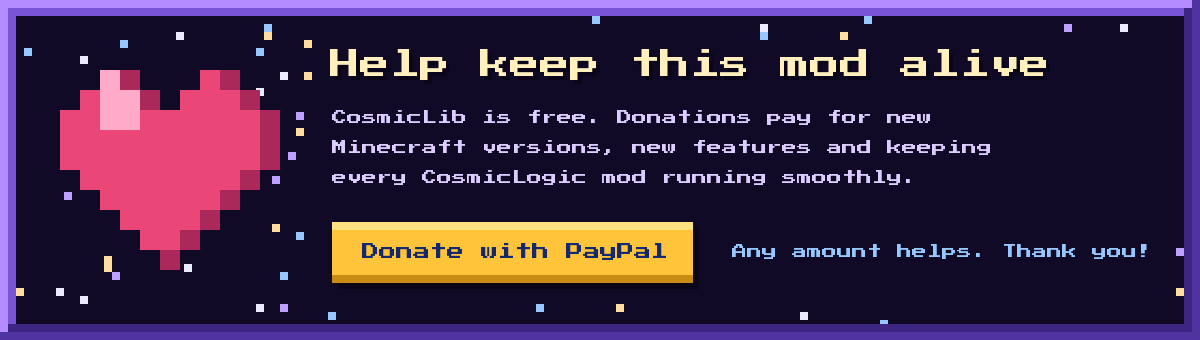
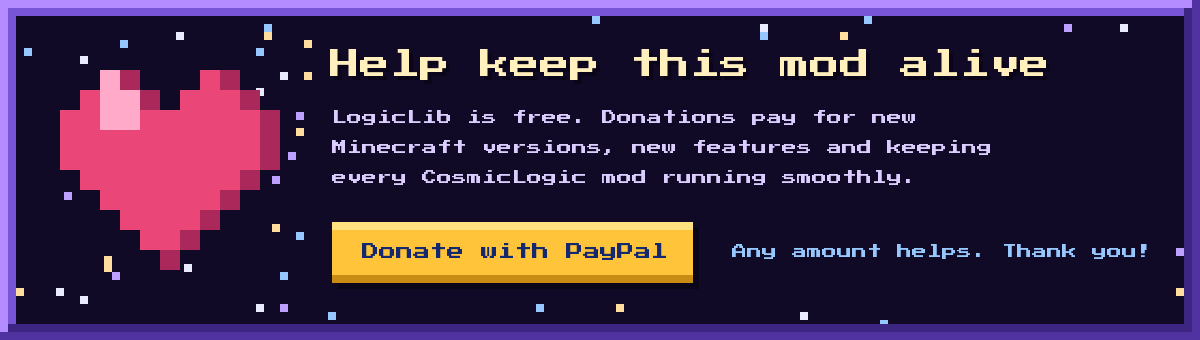
Rename CosmicLib to LogicLib
The name CosmicLib is already used on CurseForge by another mod, and its
mod id could clash on 1.12.2. New mod id: logiclib; package
com.cosmiclogic.logiclib; Paper plugin name: LogicLib.

Claude-Session: https://claude.ai/code/session_018RUrFYG8S8cBaRgmbJJgvQ

Changed region(s): [[0.2775, 0.3235, 0.7708, 0.3824]]

diff --git a/common/src/main/java/com/cosmiclogic/logiclib/config/LogicConfig.java b/common/src/main/java/com/cosmiclogic/logiclib/config/LogicConfig.java
@@ -1,7 +1,7 @@
-package com.cosmiclogic.cosmiclib.config;
+package com.cosmiclogic.logiclib.config;
 
-import com.cosmiclogic.cosmiclib.CosmicLib;
-import com.cosmiclogic.cosmiclib.platform.Services;
+import com.cosmiclogic.logiclib.LogicLib;
+import com.cosmiclogic.logiclib.platform.Services;
 import com.google.gson.Gson;
 import com.google.gson.GsonBuilder;
 import com.google.gson.JsonElement;
@@ -25,7 +25,7 @@ import java.util.function.Supplier;
  *     public int range = 16;
  * }
  *
- * public static final CosmicConfig<MyConfig> CONFIG = CosmicConfig.create("mymod", MyConfig.class, MyConfig::new);
+ * public static final LogicConfig<MyConfig> CONFIG = LogicConfig.create("mymod", MyConfig.class, MyConfig::new);
  * int range = CONFIG.get().range;
  * }</pre>
  *
@@ -33,7 +33,7 @@ import java.util.function.Supplier;
  * player's other values. A broken file is backed up as {@code <name>.json.broken} and replaced
  * with defaults instead of crashing the game.
  */
-public final class CosmicConfig<T> {
+public final class LogicConfig<T> {
 
     private static final Gson GSON = new GsonBuilder().setPrettyPrinting().disableHtmlEscaping().create();
 
@@ -42,15 +42,15 @@ public final class CosmicConfig<T> {
     private final Supplier<T> defaults;
     private T value;
 
-    private CosmicConfig(Path file, Class<T> type, Supplier<T> defaults) {
+    private LogicConfig(Path file, Class<T> type, Supplier<T> defaults) {
         this.file = file;
         this.type = type;
         this.defaults = defaults;
     }
 
     /** Creates and loads {@code config/<fileName>.json}. Usually fileName is your mod id. */
-    public static <T> CosmicConfig<T> create(String fileName, Class<T> type, Supplier<T> defaults) {
-        CosmicConfig<T> config = new CosmicConfig<>(Services.PLATFORM.getConfigDir().resolve(fileName + ".json"), type, defaults);
+    public static <T> LogicConfig<T> create(String fileName, Class<T> type, Supplier<T> defaults) {
+        LogicConfig<T> config = new LogicConfig<>(Services.PLATFORM.getConfigDir().resolve(fileName + ".json"), type, defaults);
         config.load();
         return config;
     }
@@ -82,7 +82,7 @@ public final class CosmicConfig<T> {
                 }
                 value = GSON.fromJson(merged, type);
             } catch (Exception e) {
-                CosmicLib.LOG.warn("Config {} is broken ({}). Backing it up and using defaults.", file.getFileName(), e.getMessage());
+                LogicLib.LOG.warn("Config {} is broken ({}). Backing it up and using defaults.", file.getFileName(), e.getMessage());
                 backupBroken();
                 merged = defaultsJson;
                 value = GSON.fromJson(defaultsJson, type);
@@ -103,7 +103,7 @@ public final class CosmicConfig<T> {
             Files.createDirectories(file.getParent());
             Files.writeString(file, GSON.toJson(json), StandardCharsets.UTF_8);
         } catch (IOException e) {
-            CosmicLib.LOG.warn("Could not save config {}: {}", file.getFileName(), e.getMessage());
+            LogicLib.LOG.warn("Could not save config {}: {}", file.getFileName(), e.getMessage());
         }
     }
 

diff --git a/forge/src/main/java/com/cosmiclogic/logiclib/platform/ForgeRegistryHelper.java b/forge/src/main/java/com/cosmiclogic/logiclib/platform/ForgeRegistryHelper.java
@@ -1,17 +1,16 @@
-package com.cosmiclogic.cosmiclib.platform;
+package com.cosmiclogic.logiclib.platform;
 
-import com.cosmiclogic.cosmiclib.platform.services.IRegistryHelper;
+import com.cosmiclogic.logiclib.platform.services.IRegistryHelper;
 import net.minecraft.core.Registry;
 import net.minecraft.resources.ResourceKey;
-import net.neoforged.bus.api.IEventBus;
-import net.neoforged.fml.ModLoadingContext;
-import net.neoforged.neoforge.registries.DeferredRegister;
+import net.minecraftforge.fml.javafmlmod.FMLJavaModLoadingContext;
+import net.minecraftforge.registries.DeferredRegister;
 
 import java.util.Map;
 import java.util.concurrent.ConcurrentHashMap;
 import java.util.function.Supplier;
 
-public class NeoForgeRegistryHelper implements IRegistryHelper {
+public class ForgeRegistryHelper implements IRegistryHelper {
 
     private static final Map<String, DeferredRegister<?>> REGISTERS = new ConcurrentHashMap<>();
 
@@ -26,11 +25,7 @@ public class NeoForgeRegistryHelper implements IRegistryHelper {
     private static <T> DeferredRegister<T> create(ResourceKey<? extends Registry<T>> registry, String modId) {
         DeferredRegister<T> register = DeferredRegister.create(registry, modId);
         // Attaches to the event bus of the mod currently being constructed.
-        IEventBus bus = ModLoadingContext.get().getActiveContainer().getEventBus();
-        if (bus == null) {
-            throw new IllegalStateException("CosmicRegistry.register must be called while mod '" + modId + "' is being constructed");
-        }
-        register.register(bus);
+        register.register(FMLJavaModLoadingContext.get().getModEventBus());
         return register;
     }
 }

diff --git a/neoforge/src/main/java/com/cosmiclogic/logiclib/platform/NeoForgeRegistryHelper.java b/neoforge/src/main/java/com/cosmiclogic/logiclib/platform/NeoForgeRegistryHelper.java
@@ -1,16 +1,17 @@
-package com.cosmiclogic.cosmiclib.platform;
+package com.cosmiclogic.logiclib.platform;
 
-import com.cosmiclogic.cosmiclib.platform.services.IRegistryHelper;
+import com.cosmiclogic.logiclib.platform.services.IRegistryHelper;
 import net.minecraft.core.Registry;
 import net.minecraft.resources.ResourceKey;
-import net.minecraftforge.fml.javafmlmod.FMLJavaModLoadingContext;
-import net.minecraftforge.registries.DeferredRegister;
+import net.neoforged.bus.api.IEventBus;
+import net.neoforged.fml.ModLoadingContext;
+import net.neoforged.neoforge.registries.DeferredRegister;
 
 import java.util.Map;
 import java.util.concurrent.ConcurrentHashMap;
 import java.util.function.Supplier;
 
-public class ForgeRegistryHelper implements IRegistryHelper {
+public class NeoForgeRegistryHelper implements IRegistryHelper {
 
     private static final Map<String, DeferredRegister<?>> REGISTERS = new ConcurrentHashMap<>();
 
@@ -25,7 +26,11 @@ public class ForgeRegistryHelper implements IRegistryHelper {
     private static <T> DeferredRegister<T> create(ResourceKey<? extends Registry<T>> registry, String modId) {
         DeferredRegister<T> register = DeferredRegister.create(registry, modId);
         // Attaches to the event bus of the mod currently being constructed.
-        register.register(FMLJavaModLoadingContext.get().getModEventBus());
+        IEventBus bus = ModLoadingContext.get().getActiveContainer().getEventBus();
+        if (bus == null) {
+            throw new IllegalStateException("LogicRegistry.register must be called while mod '" + modId + "' is being constructed");
+        }
+        register.register(bus);
         return register;
     }
 }

diff --git a/common/src/main/java/com/cosmiclogic/logiclib/server/CreatorServer.java b/common/src/main/java/com/cosmiclogic/logiclib/server/CreatorServer.java
@@ -1,7 +1,7 @@
-package com.cosmiclogic.cosmiclib.server;
+package com.cosmiclogic.logiclib.server;
 
-import com.cosmiclogic.cosmiclib.CosmicLib;
-import com.cosmiclogic.cosmiclib.platform.Services;
+import com.cosmiclogic.logiclib.LogicLib;
+import com.cosmiclogic.logiclib.platform.Services;
 
 import java.io.IOException;
 import java.nio.charset.StandardCharsets;
@@ -20,11 +20,11 @@ import java.util.Set;
  * <pre>{@code
  * CreatorServer.request(MOD_ID, CONFIG.get().addCreatorServer);
  * }</pre>
- * CosmicLib then adds the entry on the client after startup, unless the shared marker file
+ * LogicLib then adds the entry on the client after startup, unless the shared marker file
  * {@code config/cosmiclogic/creator_server.json} already exists. The marker is written even if the
  * server was already in the list, so it is never added again, even after the player deletes it.
  *
- * <p>Mods that do NOT use CosmicLib must follow the same rules and use the same marker path.
+ * <p>Mods that do NOT use LogicLib must follow the same rules and use the same marker path.
  */
 public final class CreatorServer {
 
@@ -72,7 +72,7 @@ public final class CreatorServer {
             Files.createDirectories(marker.getParent());
             Files.writeString(marker, json, StandardCharsets.UTF_8);
         } catch (IOException e) {
-            CosmicLib.LOG.warn("Could not write creator server marker: {}", e.getMessage());
+            LogicLib.LOG.warn("Could not write creator server marker: {}", e.getMessage());
         }
     }
 }

diff --git a/common/src/main/java/com/cosmiclogic/logiclib/client/CreatorServerClient.java b/common/src/main/java/com/cosmiclogic/logiclib/client/CreatorServerClient.java
@@ -1,7 +1,7 @@
-package com.cosmiclogic.cosmiclib.client;
+package com.cosmiclogic.logiclib.client;
 
-import com.cosmiclogic.cosmiclib.CosmicLib;
-import com.cosmiclogic.cosmiclib.server.CreatorServer;
+import com.cosmiclogic.logiclib.LogicLib;
+import com.cosmiclogic.logiclib.server.CreatorServer;
 import net.minecraft.client.Minecraft;
 import net.minecraft.client.multiplayer.ServerData;
 import net.minecraft.client.multiplayer.ServerList;
@@ -37,11 +37,11 @@ public final class CreatorServerClient {
                 // Appended at the END of the list, never pinned or locked.
                 list.add(new ServerData(CreatorServer.NAME, CreatorServer.ADDRESS, ServerData.Type.OTHER), false);
                 list.save();
-                CosmicLib.LOG.info("Added {} to the server list (requested by {}). It will not be added again.", CreatorServer.NAME, CreatorServer.firstRequester());
+                LogicLib.LOG.info("Added {} to the server list (requested by {}). It will not be added again.", CreatorServer.NAME, CreatorServer.firstRequester());
             }
             CreatorServer.writeMarker(CreatorServer.firstRequester());
         } catch (Throwable t) {
-            CosmicLib.LOG.warn("Skipped adding the creator server: {}", t.toString());
+            LogicLib.LOG.warn("Skipped adding the creator server: {}", t.toString());
         }
     }
 }

diff --git a/common/src/main/java/com/cosmiclogic/logiclib/LogicLib.java b/common/src/main/java/com/cosmiclogic/logiclib/LogicLib.java
@@ -1,0 +1,30 @@
+package com.cosmiclogic.logiclib;
+
+import org.slf4j.Logger;
+import org.slf4j.LoggerFactory;
+
+/**
+ * LogicLib: shared code for CosmicLogic's mods. Adds no gameplay on its own.
+ *
+ * <p>Modules (v0.1.0):
+ * <ul>
+ *   <li>{@link com.cosmiclogic.logiclib.platform.Services} - which loader is running, mod checks, config folder</li>
+ *   <li>{@link com.cosmiclogic.logiclib.config.LogicConfig} - simple JSON config files</li>
+ *   <li>{@link com.cosmiclogic.logiclib.server.CreatorServer} - the "Logic Survival" server-list entry (added once across all mods)</li>
+ *   <li>{@link com.cosmiclogic.logiclib.registry.LogicRegistry} - one way to register items/blocks/etc. on Forge and NeoForge</li>
+ * </ul>
+ */
+public final class LogicLib {
+
+    public static final String MOD_ID = "logiclib";
+    public static final String MOD_NAME = "LogicLib";
+    public static final Logger LOG = LoggerFactory.getLogger(MOD_NAME);
+
+    private LogicLib() {
+    }
+
+    /** Called once by the loader-specific entrypoint. */
+    public static void init() {
+        LOG.info("{} loaded on {}", MOD_NAME, com.cosmiclogic.logiclib.platform.Services.PLATFORM.getPlatformName());
+    }
+}

diff --git a/common/src/main/java/com/cosmiclogic/logiclib/registry/LogicRegistry.java b/common/src/main/java/com/cosmiclogic/logiclib/registry/LogicRegistry.java
@@ -1,6 +1,6 @@
-package com.cosmiclogic.cosmiclib.registry;
+package com.cosmiclogic.logiclib.registry;
 
-import com.cosmiclogic.cosmiclib.platform.Services;
+import com.cosmiclogic.logiclib.platform.Services;
 import net.minecraft.core.Registry;
 import net.minecraft.resources.ResourceKey;
 
@@ -11,15 +11,15 @@ import java.util.function.Supplier;
  *
  * <pre>{@code
  * public static final Supplier<Item> RUBY =
- *     CosmicRegistry.register(Registries.ITEM, MOD_ID, "ruby", () -> new Item(new Item.Properties()));
+ *     LogicRegistry.register(Registries.ITEM, MOD_ID, "ruby", () -> new Item(new Item.Properties()));
  * }</pre>
  *
  * Call it while your mod is being constructed (your mod class constructor, or static fields of a
  * class you touch from there). Use {@code RUBY.get()} only after registration has finished.
  */
-public final class CosmicRegistry {
+public final class LogicRegistry {
 
-    private CosmicRegistry() {
+    private LogicRegistry() {
     }
 
     public static <T> Supplier<T> register(ResourceKey<? extends Registry<T>> registry, String modId, String name, Supplier<? extends T> factory) {

diff --git a/common/src/main/java/com/cosmiclogic/logiclib/platform/Services.java b/common/src/main/java/com/cosmiclogic/logiclib/platform/Services.java
@@ -1,8 +1,8 @@
-package com.cosmiclogic.cosmiclib.platform;
+package com.cosmiclogic.logiclib.platform;
 
-import com.cosmiclogic.cosmiclib.CosmicLib;
-import com.cosmiclogic.cosmiclib.platform.services.IPlatformHelper;
-import com.cosmiclogic.cosmiclib.platform.services.IRegistryHelper;
+import com.cosmiclogic.logiclib.LogicLib;
+import com.cosmiclogic.logiclib.platform.services.IPlatformHelper;
+import com.cosmiclogic.logiclib.platform.services.IRegistryHelper;
 
 import java.util.ServiceLoader;
 
@@ -23,7 +23,7 @@ public final class Services {
         final T loadedService = ServiceLoader.load(clazz)
                 .findFirst()
                 .orElseThrow(() -> new NullPointerException("Failed to load service for " + clazz.getName()));
-        CosmicLib.LOG.debug("Loaded {} for service {}", loadedService, clazz);
+        LogicLib.LOG.debug("Loaded {} for service {}", loadedService, clazz);
         return loadedService;
     }
 }

diff --git a/forge/src/main/java/com/cosmiclogic/logiclib/platform/ForgePlatformHelper.java b/forge/src/main/java/com/cosmiclogic/logiclib/platform/ForgePlatformHelper.java
@@ -1,18 +1,18 @@
-package com.cosmiclogic.cosmiclib.platform;
+package com.cosmiclogic.logiclib.platform;
 
-import com.cosmiclogic.cosmiclib.platform.services.IPlatformHelper;
-import net.neoforged.fml.ModList;
-import net.neoforged.fml.loading.FMLEnvironment;
-import net.neoforged.fml.loading.FMLLoader;
-import net.neoforged.fml.loading.FMLPaths;
+import com.cosmiclogic.logiclib.platform.services.IPlatformHelper;
+import net.minecraftforge.fml.ModList;
+import net.minecraftforge.fml.loading.FMLEnvironment;
+import net.minecraftforge.fml.loading.FMLLoader;
+import net.minecraftforge.fml.loading.FMLPaths;
 
 import java.nio.file.Path;
 
-public class NeoForgePlatformHelper implements IPlatformHelper {
+public class ForgePlatformHelper implements IPlatformHelper {
 
     @Override
     public String getPlatformName() {
-        return "NeoForge";
+        return "Forge";
     }
 
     @Override

diff --git a/neoforge/src/main/java/com/cosmiclogic/logiclib/platform/NeoForgePlatformHelper.java b/neoforge/src/main/java/com/cosmiclogic/logiclib/platform/NeoForgePlatformHelper.java
@@ -1,18 +1,18 @@
-package com.cosmiclogic.cosmiclib.platform;
+package com.cosmiclogic.logiclib.platform;
 
-import com.cosmiclogic.cosmiclib.platform.services.IPlatformHelper;
-import net.minecraftforge.fml.ModList;
-import net.minecraftforge.fml.loading.FMLEnvironment;
-import net.minecraftforge.fml.loading.FMLLoader;
-import net.minecraftforge.fml.loading.FMLPaths;
+import com.cosmiclogic.logiclib.platform.services.IPlatformHelper;
+import net.neoforged.fml.ModList;
+import net.neoforged.fml.loading.FMLEnvironment;
+import net.neoforged.fml.loading.FMLLoader;
+import net.neoforged.fml.loading.FMLPaths;
 
 import java.nio.file.Path;
 
-public class ForgePlatformHelper implements IPlatformHelper {
+public class NeoForgePlatformHelper implements IPlatformHelper {
 
     @Override
     public String getPlatformName() {
-        return "Forge";
+        return "NeoForge";
     }
 
     @Override

diff --git a/forge/src/main/java/com/cosmiclogic/logiclib/LogicLibForge.java b/forge/src/main/java/com/cosmiclogic/logiclib/LogicLibForge.java
@@ -1,16 +1,16 @@
-package com.cosmiclogic.cosmiclib;
+package com.cosmiclogic.logiclib;
 
-import com.cosmiclogic.cosmiclib.client.CreatorServerClient;
+import com.cosmiclogic.logiclib.client.CreatorServerClient;
 import net.minecraftforge.eventbus.api.IEventBus;
 import net.minecraftforge.fml.common.Mod;
 import net.minecraftforge.fml.event.lifecycle.FMLClientSetupEvent;
 import net.minecraftforge.fml.javafmlmod.FMLJavaModLoadingContext;
 
-@Mod(CosmicLib.MOD_ID)
-public class CosmicLibForge {
+@Mod(LogicLib.MOD_ID)
+public class LogicLibForge {
 
-    public CosmicLibForge() {
-        CosmicLib.init();
+    public LogicLibForge() {
+        LogicLib.init();
         IEventBus modBus = FMLJavaModLoadingContext.get().getModEventBus();
         modBus.addListener(this::onClientSetup);
     }

diff --git a/neoforge/src/main/java/com/cosmiclogic/logiclib/LogicLibNeoForge.java b/neoforge/src/main/java/com/cosmiclogic/logiclib/LogicLibNeoForge.java
@@ -1,15 +1,15 @@
-package com.cosmiclogic.cosmiclib;
+package com.cosmiclogic.logiclib;
 
-import com.cosmiclogic.cosmiclib.client.CreatorServerClient;
+import com.cosmiclogic.logiclib.client.CreatorServerClient;
 import net.neoforged.bus.api.IEventBus;
 import net.neoforged.fml.common.Mod;
 import net.neoforged.fml.event.lifecycle.FMLClientSetupEvent;
 
-@Mod(CosmicLib.MOD_ID)
-public class CosmicLibNeoForge {
+@Mod(LogicLib.MOD_ID)
+public class LogicLibNeoForge {
 
-    public CosmicLibNeoForge(IEventBus modBus) {
-        CosmicLib.init();
+    public LogicLibNeoForge(IEventBus modBus) {
+        LogicLib.init();
         modBus.addListener(this::onClientSetup);
     }
 
